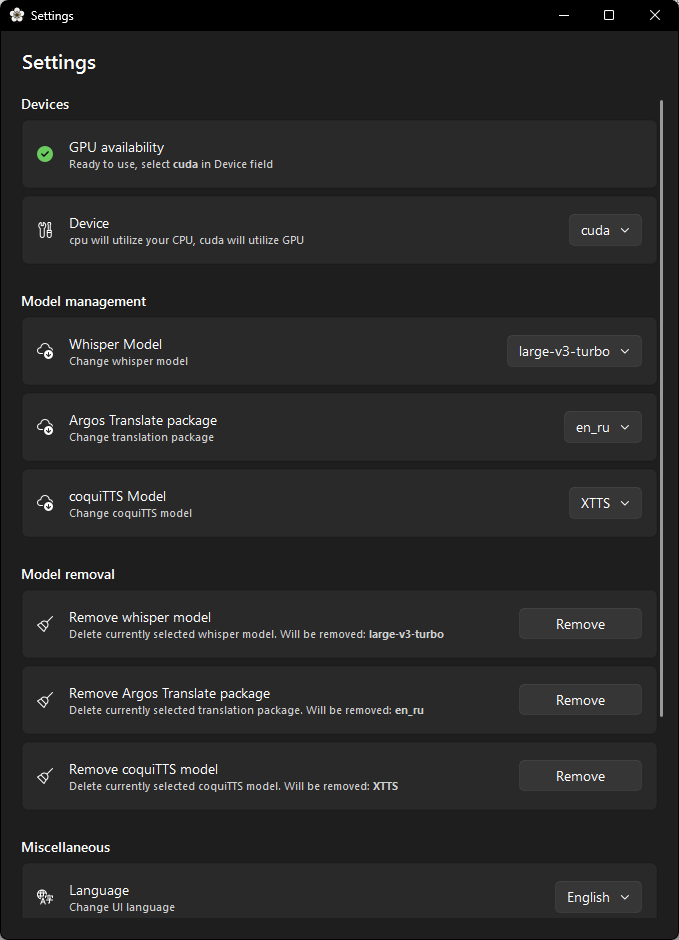
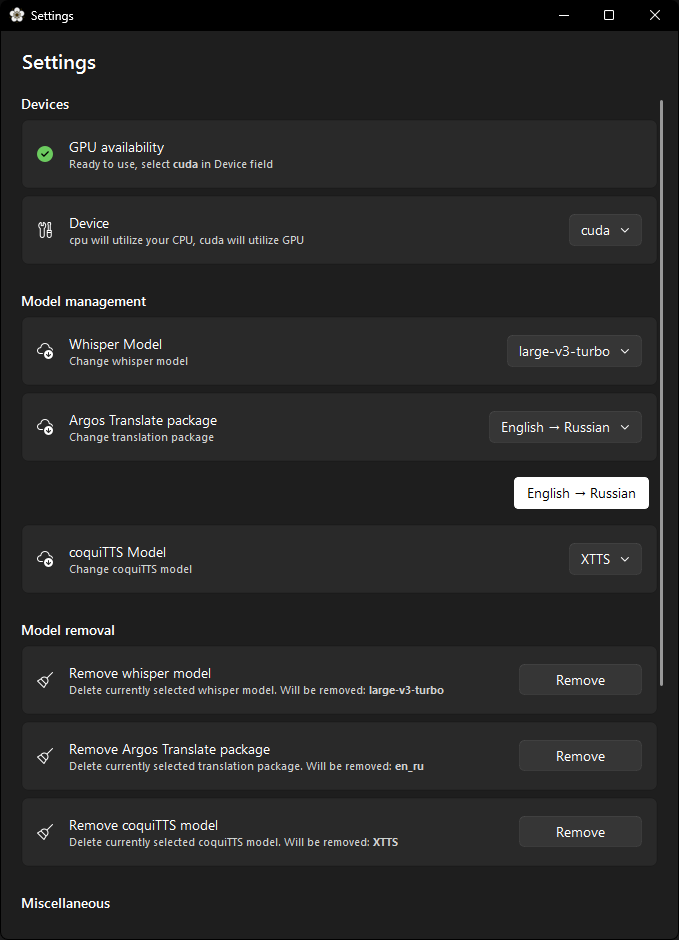
fix: package selector; feat: installed packages list; disable audio mixing

diff --git a/main.py b/main.py
@@ -3,9 +3,11 @@ from PyQt6.QtGui import QColor, QIcon
 from PyQt6.QtWidgets import QApplication, QMainWindow, QVBoxLayout, QHBoxLayout, QWidget, QFileDialog, QLabel
 from PyQt6.QtCore import Qt, pyqtSignal, QTranslator, QCoreApplication, QTimer
 sys.stdout = open(os.devnull, 'w')
-from qfluentwidgets import setThemeColor, TransparentToolButton, FluentIcon, PushSettingCard, isDarkTheme, SettingCard, MessageBox, FluentTranslator, IndeterminateProgressBar, HeaderCardWidget, BodyLabel, IconWidget, InfoBarIcon, PushButton, SubtitleLabel, ComboBoxSettingCard, OptionsSettingCard, HyperlinkCard, ScrollArea, InfoBar, InfoBarPosition, StrongBodyLabel, Flyout, FlyoutAnimationType
+import warnings
+warnings.filterwarnings("ignore")
+from qfluentwidgets import setThemeColor, TransparentToolButton, FluentIcon, PushSettingCard, isDarkTheme, SettingCard, MessageBox, FluentTranslator, IndeterminateProgressBar, HeaderCardWidget, BodyLabel, IconWidget, InfoBarIcon, PushButton, SubtitleLabel, ComboBoxSettingCard, OptionsSettingCard, HyperlinkCard, ScrollArea, InfoBar, InfoBarPosition, StrongBodyLabel, Flyout, FlyoutAnimationType, TransparentTogglePushButton
 from winrt.windows.ui.viewmanagement import UISettings, UIColorType
-from resource.config import cfg
+from resource.config import cfg, TranslationPackage, available_packages
 from resource.model_utils import update_model, update_device
 from resource.subtitle_creator import SubtitleCreator
 from resource.srt_translator import SRTTranslator
@@ -16,6 +18,7 @@ import shutil
 import traceback, gc
 import tempfile
 from ctranslate2 import get_cuda_device_count
+from pathlib import Path
 import glob
 
 def get_lib_paths():
@@ -25,13 +28,21 @@ def get_lib_paths():
         base_dir = os.path.join(sys.prefix, "Lib", "site-packages")
 
     nvidia_base_libs = os.path.join(base_dir, "nvidia")
-    cuda_libs = os.path.join(nvidia_base_libs, "cuda_runtime", "bin")
-    cublas_libs = os.path.join(nvidia_base_libs, "cublas", "bin")
-    cudnn_libs = os.path.join(nvidia_base_libs, "cudnn", "bin")
+    cuda_runtime = os.path.join(nvidia_base_libs, "cuda_runtime", "bin")
+    cublas = os.path.join(nvidia_base_libs, "cublas", "bin")
+    cudnn = os.path.join(nvidia_base_libs, "cudnn", "bin")
+    cuda_cupti = os.path.join(nvidia_base_libs, "cuda_cupti", "bin")
+    cuda_nvrtc = os.path.join(nvidia_base_libs, "cuda_nvrtc", "bin")
+    cufft = os.path.join(nvidia_base_libs, "cufft", "bin")
+    curand = os.path.join(nvidia_base_libs, "curand", "bin")
+    cusolver = os.path.join(nvidia_base_libs, "cusolver", "bin")
+    cusparse = os.path.join(nvidia_base_libs, "cusparse", "bin")
+    nvjitlink = os.path.join(nvidia_base_libs, "nvjitlink", "bin")
+    nvtx = os.path.join(nvidia_base_libs, "nvtx", "bin")
 
     ffmpeg_base = os.path.join(base_dir, "ffmpeg_binaries", "binaries", "bin")
 
-    return [cuda_libs, cublas_libs, cudnn_libs, ffmpeg_base]
+    return [cuda_runtime, cublas, cudnn, cuda_cupti, cuda_nvrtc, cufft, curand, cusolver, cusparse, nvjitlink, nvtx, ffmpeg_base]
 
 
 for dll_path in get_lib_paths():
@@ -364,6 +375,20 @@ class MainWindow(QMainWindow):
         self.model = None
         self.last_directory = ""
         self.setAcceptDrops(True)
+        self.languages = {f"{pkg.from_code}_{pkg.to_code}": f"{pkg}" for pkg in available_packages}
+        self.lang_buttons = {
+            'settings': {}
+        }
+
+        self.scroll_area_settings = ScrollArea()
+        self.scroll_area_settings.setWidgetResizable(True)
+        self.scroll_area_settings.setHorizontalScrollBarPolicy(Qt.ScrollBarPolicy.ScrollBarAsNeeded)
+        self.scroll_area_settings.setVerticalScrollBarPolicy(Qt.ScrollBarPolicy.ScrollBarAlwaysOff)
+        self.scroll_area_settings.setFixedHeight(50)
+        self.lang_layout_settings = QHBoxLayout()
+        self.lang_widget_settings = QWidget()
+        self.lang_widget_settings.setLayout(self.lang_layout_settings)
+        self.lang_layout_settings.addStretch()
 
         self.theme_changed.connect(self.update_theme)
         self.model_changed.connect(lambda: update_model(self))
@@ -532,6 +557,67 @@ class MainWindow(QMainWindow):
 
         self.back_button.hide()
 
+    def check_packages(self):
+        translation_mapping = {f"{pkg.from_code}_{pkg.to_code}": getattr(TranslationPackage, f"{pkg.from_code.upper()}_TO_{pkg.to_code.upper()}", None) for pkg in available_packages}
+
+        def update_layout(layout):
+            layout_key = 'settings'
+            self.lang_buttons[layout_key].clear()
+
+            # Clear the layout
+            for i in reversed(range(layout.count())):
+                widget = layout.itemAt(i).widget()
+                if widget and widget.parent() is not None:
+                    widget.deleteLater()
+
+            # Find available languages
+            available_languages = []
+            for language_pair, name in self.languages.items():
+                package_patterns = [
+                    os.path.join(
+                        base_dir,
+                        "models/argostranslate/data/argos-translate/packages",
+                        f"translate-{language_pair}-*"
+                    ),
+                    os.path.join(
+                        base_dir,
+                        "models/argostranslate/data/argos-translate/packages",
+                        f"{language_pair}"
+                    )
+                ]
+                found = False
+                for pattern in package_patterns:
+                    if any(Path(p).is_dir() for p in glob.glob(pattern)):
+                        found = True
+                        break
+                if found:
+                    available_languages.append((language_pair, name))
+
+            # Create buttons for available languages
+            current_package = cfg.get(cfg.package).value
+            for code, name in available_languages:
+                lang_button = TransparentTogglePushButton(name)
+                lang_button.setChecked(code == current_package)
+                self.lang_buttons[layout_key][code] = lang_button
+
+                def handler(checked=False, c=code):
+                    # Uncheck all others
+                    for btns in self.lang_buttons.values():
+                        for other_code, other_btn in btns.items():
+                            other_btn.setChecked(other_code == c)
+
+                    cfg.set(cfg.package, translation_mapping[c])
+                    self.card_settlpackage.setValue(translation_mapping[c])
+
+                lang_button.clicked.connect(handler)
+                layout.addWidget(lang_button, alignment=Qt.AlignmentFlag.AlignTop)
+
+            # Show/hide the widget based on available languages
+            if layout == self.lang_layout_settings:
+                self.scroll_area_settings.setVisible(len(available_languages) > 0)
+
+        update_layout(self.lang_layout_settings)
+
     def settings_layout(self):
         settings_layout = QVBoxLayout()
 
@@ -597,23 +683,16 @@ class MainWindow(QMainWindow):
             icon=FluentIcon.CLOUD_DOWNLOAD,
             title=QCoreApplication.translate("MainWindow","Argos Translate package"),
             content=QCoreApplication.translate("MainWindow", "Change translation package"),
-            texts=[
-                "None", "sq_en", "ar_en", "az_en", "eu_en", "bn_en", "bg_en", "ca_en", "zh_tw_en", "zh_en",
-                "cs_en", "da_en", "nl_en", "en_sq", "en_ar", "en_az", "en_eu", "en_bn", "en_bg",
-                "en_ca", "en_zh", "en_zh_tw", "en_cs", "en_da", "en_nl", "en_eo", "en_et", "en_fi",
-                "en_fr", "en_gl", "en_de", "en_el", "en_he", "en_hi", "en_hu", "en_id", "en_ga",
-                "en_it", "en_ja", "en_ko", "en_lv", "en_lt", "en_ms", "en_no", "en_fa", "en_pl",
-                "en_pt", "en_pt_br", "en_ro", "en_ru", "en_sk", "en_sl", "en_es", "en_sv", "en_tl",
-                "en_th", "en_tr", "en_uk", "en_ur", "eo_en", "et_en", "fi_en", "fr_en", "gl_en",
-                "de_en", "el_en", "he_en", "hi_en", "hu_en", "id_en", "ga_en", "it_en", "ja_en",
-                "ko_en", "lv_en", "lt_en", "ms_en", "no_en", "fa_en", "pl_en", "pt_br_en", "pt_en",
-                "pt_es", "ro_en", "ru_en", "sk_en", "sl_en", "es_en", "es_pt", "sv_en", "tl_en",
-                "th_en", "tr_en", "uk_en", "ur_en"
+            texts=['None',
+                *[self.languages.get(f"{pkg.from_code}_{pkg.to_code}", f"{pkg.from_code} → {pkg.to_code}") for pkg in available_packages]
             ]
         )
 
         card_layout.addWidget(self.card_settlpackage, alignment=Qt.AlignmentFlag.AlignTop)
         cfg.package.valueChanged.connect(self.package_changed.emit)
+        self.scroll_area_settings.setWidget(self.lang_widget_settings)
+        card_layout.addWidget(self.scroll_area_settings)
+        self.check_packages()
 
         self.card_setttsmodel = ComboBoxSettingCard(
             configItem=cfg.tts_model,
@@ -821,6 +900,7 @@ class MainWindow(QMainWindow):
             # Only update config if we actually removed something
             if removed_dirs or removed_file:
                 cfg.set(cfg.package, 'None')
+                self.check_packages()
 
                 InfoBar.success(
                     title=QCoreApplication.translate("MainWindow", "Success"),
@@ -1167,6 +1247,7 @@ class MainWindow(QMainWindow):
                 parent=self.settings_win
             )
             self.update_argos_remove_button_state(True)
+            self.check_packages()
         elif status.startswith("error"):
             InfoBar.error(
                 title=QCoreApplication.translate("MainWindow", "Error"),

diff --git a/resource/vo_creator.py b/resource/vo_creator.py
@@ -86,8 +86,8 @@ class VOGeneratorWorker(QThread):
                 return
 
             if self.save_path:
-                #final_audio.export(self.save_path, format="mp3")
-                original_audio = AudioSegment.from_file(self.reference_speaker)
+                final_audio.export(self.save_path, format="mp3")
+                '''original_audio = AudioSegment.from_file(self.reference_speaker)
     
                 # Ensure both audios are the same length
                 if len(original_audio) < len(final_audio):
@@ -99,7 +99,7 @@ class VOGeneratorWorker(QThread):
                 combined_audio = original_audio - 20  # Reduce original volume by 20dB
                 combined_audio = combined_audio.overlay(final_audio)
                 
-                combined_audio.export(self.save_path, format="mp3")
+                combined_audio.export(self.save_path, format="mp3")'''
                 self.finished_signal.emit(self.save_path, True)
                 #self._cleanup_temp_files()  # enable if clear temp after vo
             else:

diff --git a/resource/config.py b/resource/config.py
@@ -42,7 +42,8 @@ class ArgosPathManager:
 # Initialize Argos paths BEFORE any Argos Translate imports
 ArgosPathManager.initialize()
 
-from argostranslate import argospm
+from argostranslate import argospm, settings
+settings.device='cuda' if get_cuda_device_count() != 0 else "cpu"
 
 class TTSPathManager:
     """Manages coquiTTS directory configuration"""
